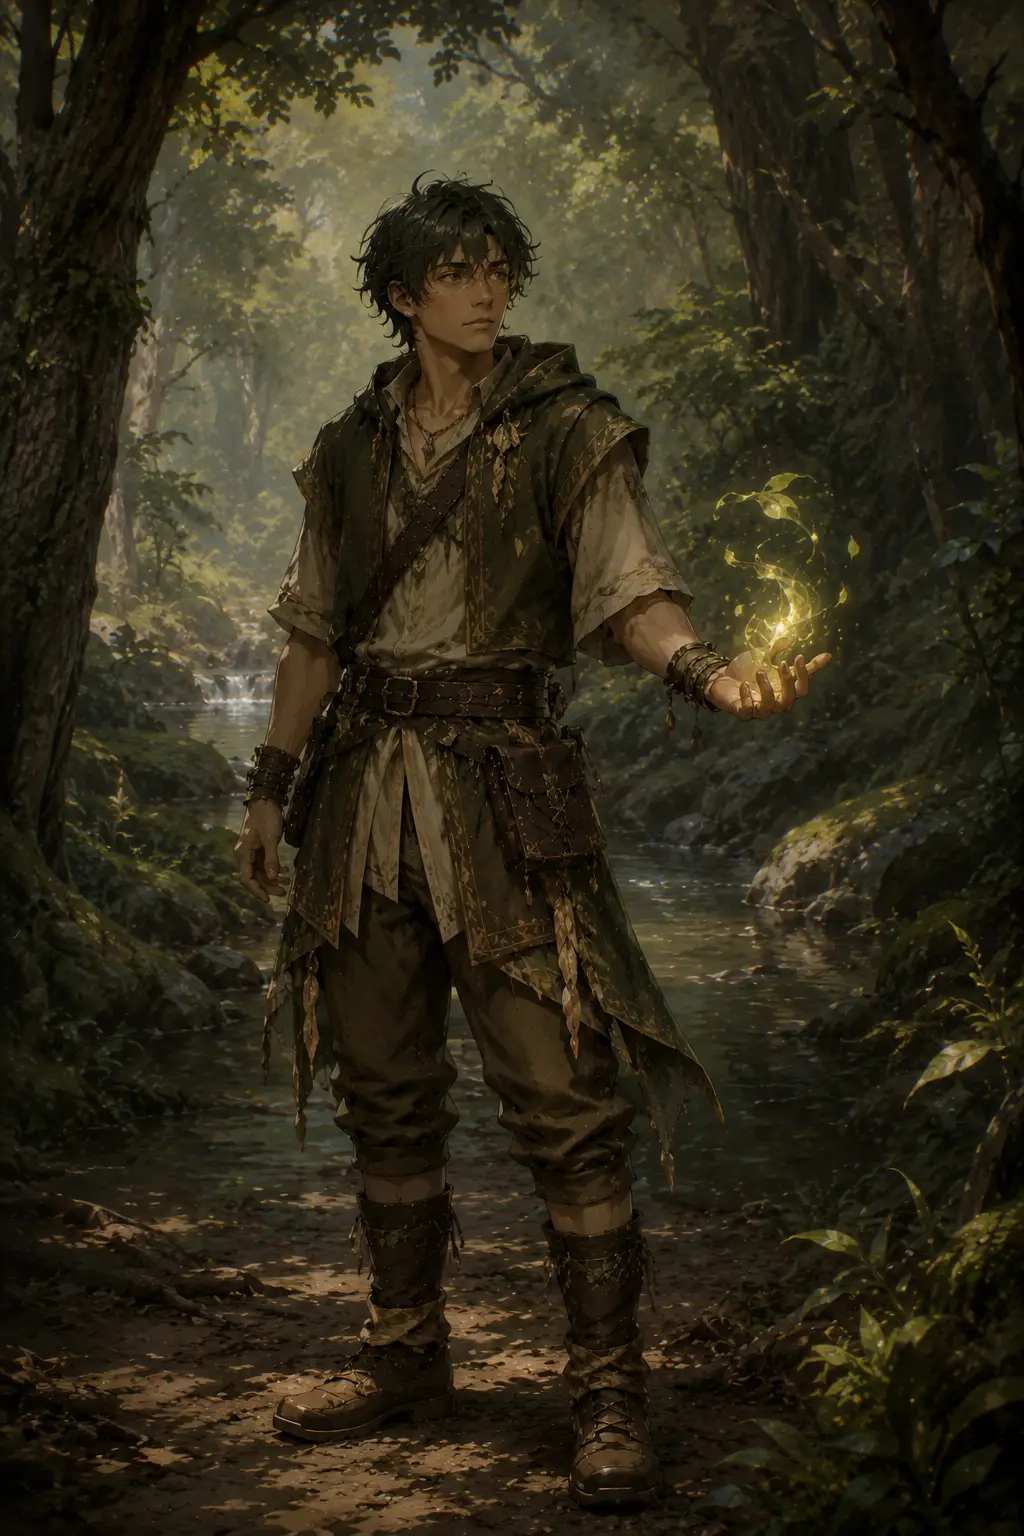
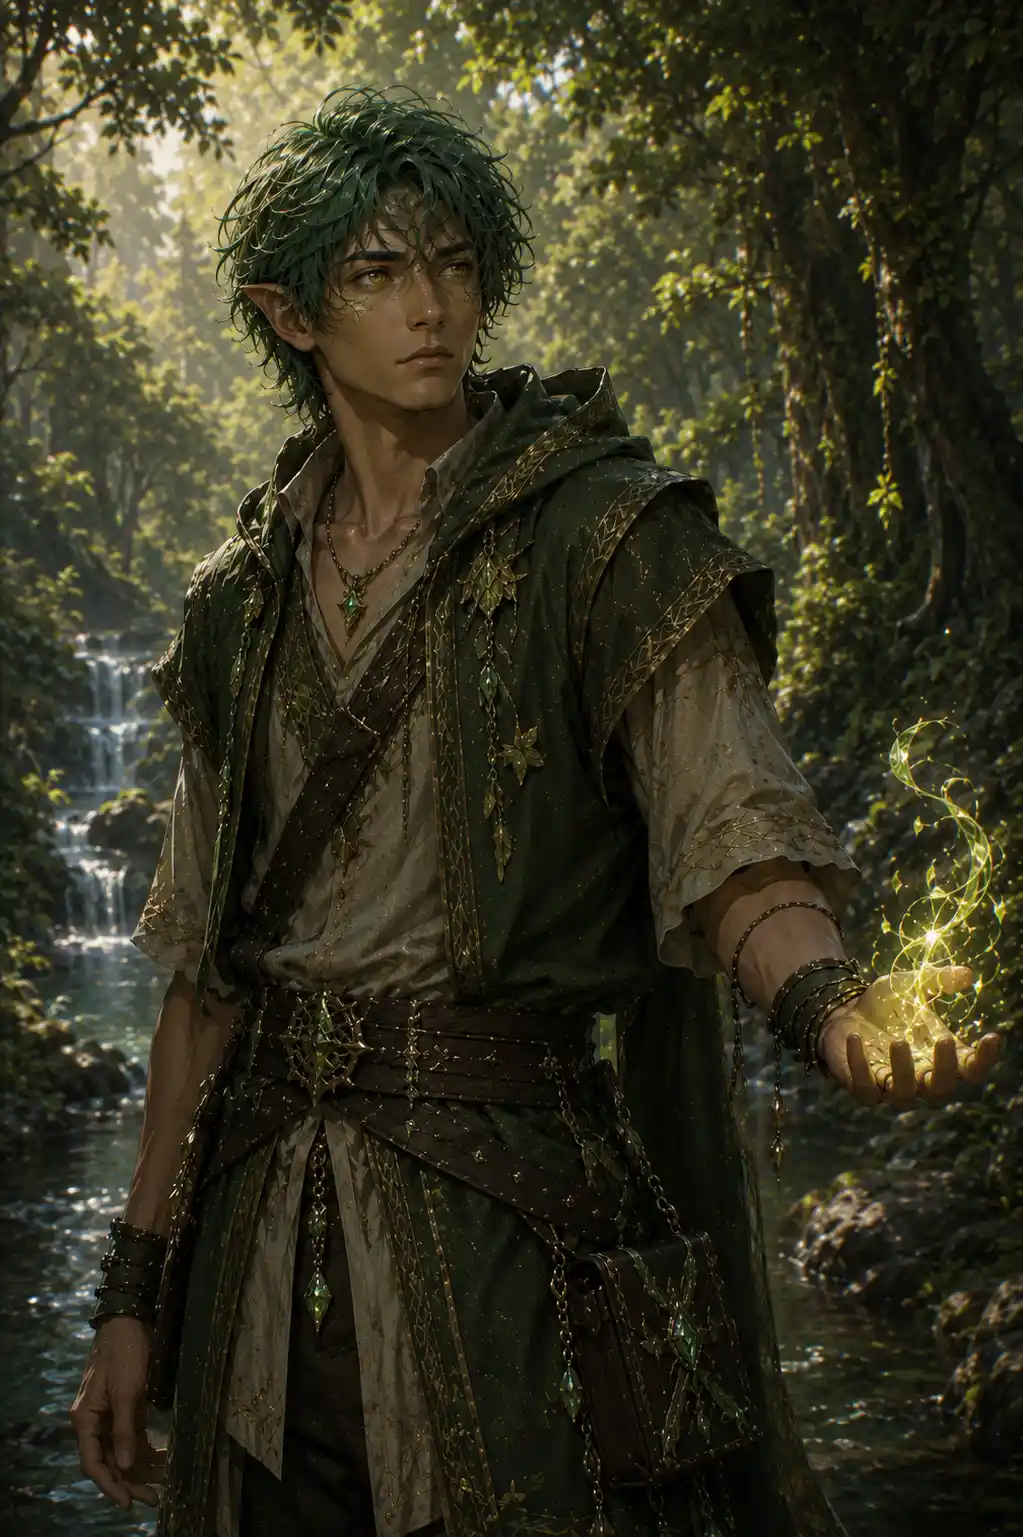
updated new things

diff --git a/characters.html b/characters.html
@@ -492,7 +492,7 @@ type:"characters"
     type:"characters"
 },
 {
-    img:"mazzo.webp",
+    img:"Mazzo.webp",
     name:"Mazzo",
     role:"Nirous's friend",
     power:"magic ablities",
@@ -524,10 +524,15 @@ type:"characters"
     type:"other"
 },
 {
-    img:"vedtoriaarmy.webp",
+    images:[
+        "va1.webp",
+        "vedtoriaarmy.webp",
+        "va2.webp",
+        "va3.webp",
+    ],
     name:"Vedtoria Army",
     role:"defenders of vedtoria",
-    power:"varied combat skills and magic abilities",
+    power:"magical skills and combat skills",
     zone:"Vedtoria planet",
     type:"other"
 },
@@ -539,9 +544,11 @@ type:"characters"
         "nature3.webp",
         "nature4.webp",
         "nature5.webp",
+        "nature9.webp",
         "nature6.webp",
         "nature7.webp",
         "nature8.webp",
+        "nature10.webp"
     ],
     name:"Vedtoria planet look",
     role:"livings and zones",
@@ -569,9 +576,10 @@ type:"characters"
 {
     images:[
         "guard1.webp",
-        "guard2.webp"
+        "guard2.webp",
+        "guard3.webp"
     ],
-    name:"Blue guards-1",
+    name:"Blue guards-1(BG-1)",
     role:"defensive unit",
     power:"attack and defense",
     zone:"Kirax Planet",
@@ -584,7 +592,7 @@ type:"characters"
         "guard2_2.webp",
         "guard2_3.webp"
     ],
-    name:"Blue guards-2",
+    name:"Blue guards-2(BG-2)",
     role:"defensive and attacking unit",
     power:"fold and unfold weapons, hyperwrap engine, rapid fire, quick arrival",
     zone:"Kirax Planet",
@@ -597,7 +605,7 @@ type:"characters"
         "guard3_2.webp",
         "guard3_3.webp"
     ],
-    name:"Blue guards-3",
+    name:"Blue guards-3(BG-3)",
     role:"support and defensive unit",
     power:"sheild,detection,destroyer,rapid fire",
     zone:"Kirax Planet",
@@ -627,7 +635,9 @@ type:"characters"
         "za2.webp",
         "za3.webp",
         "za4.webp",
-        "za5.webp"
+        "za5.webp",
+        "za6.webp",
+        "za7.webp"
     ],
     name:"Zetorex's Army",
     role:"destroyers",
